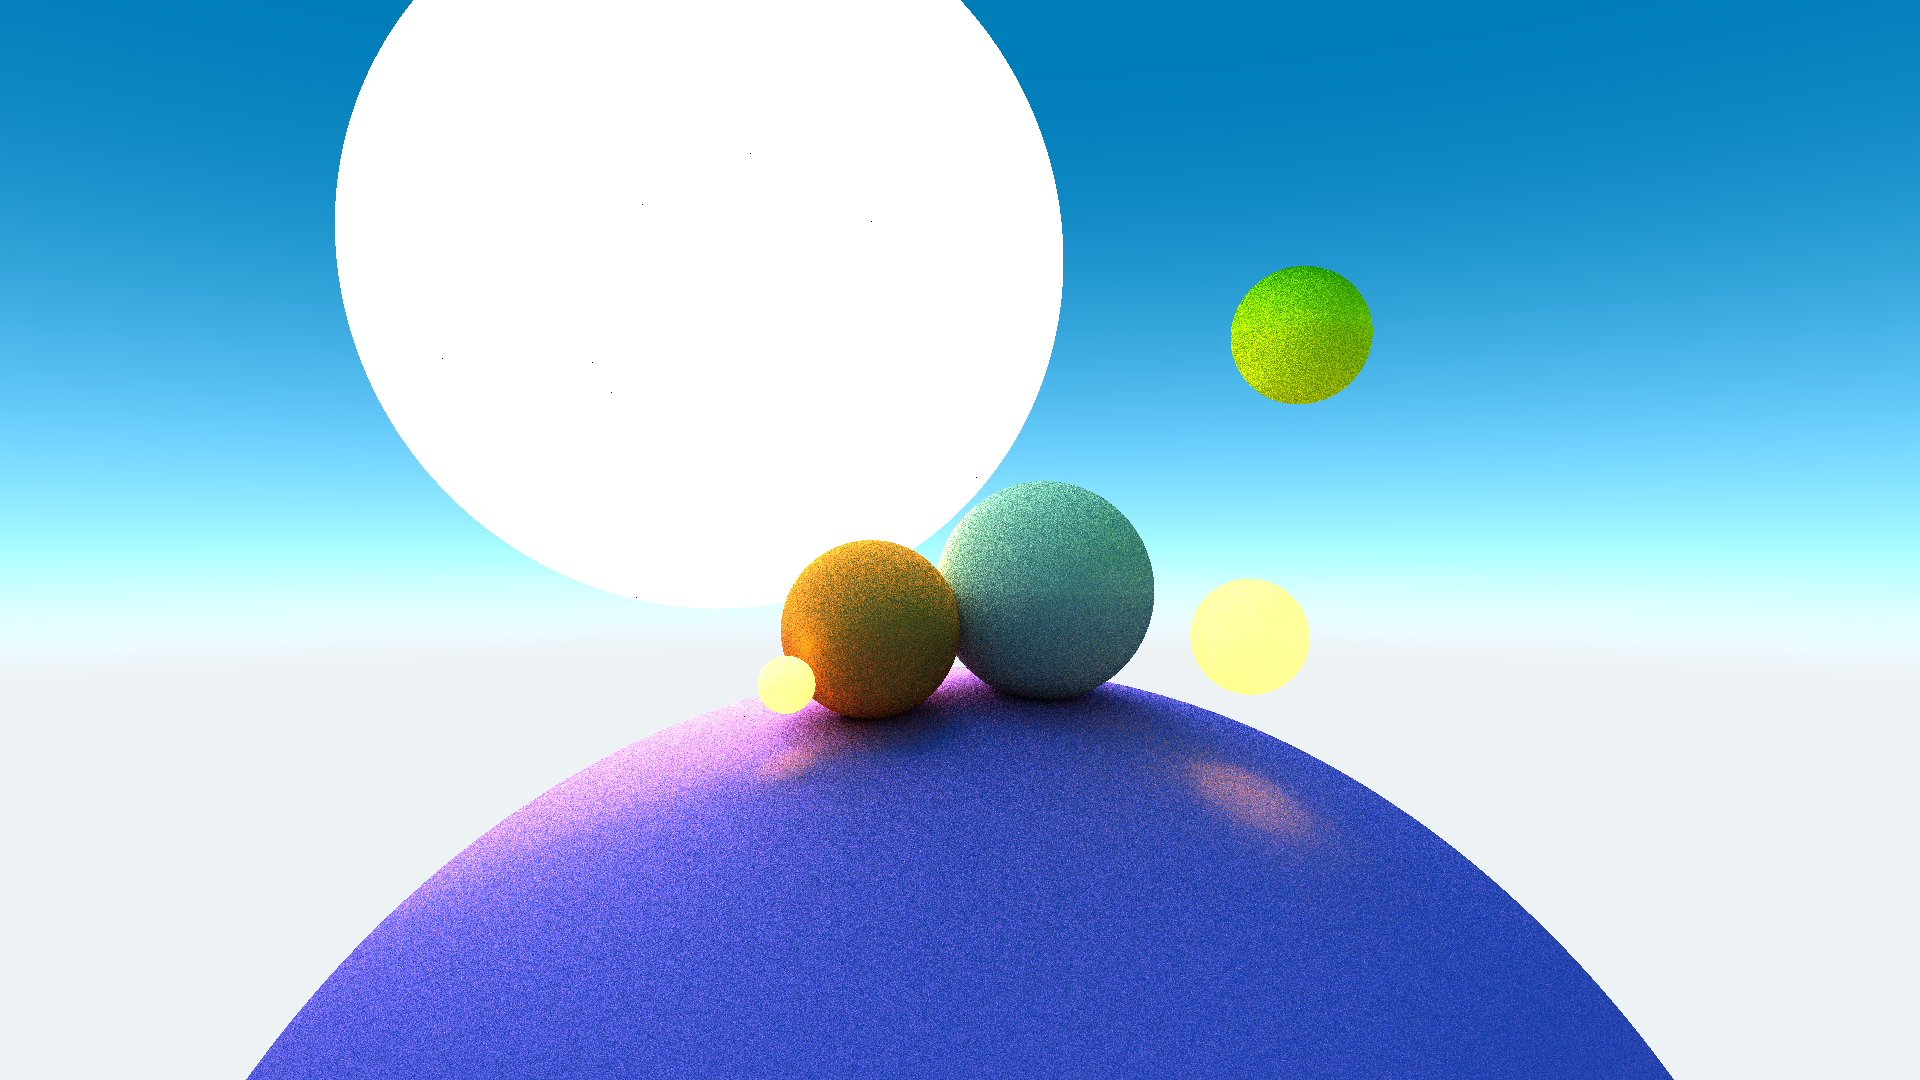
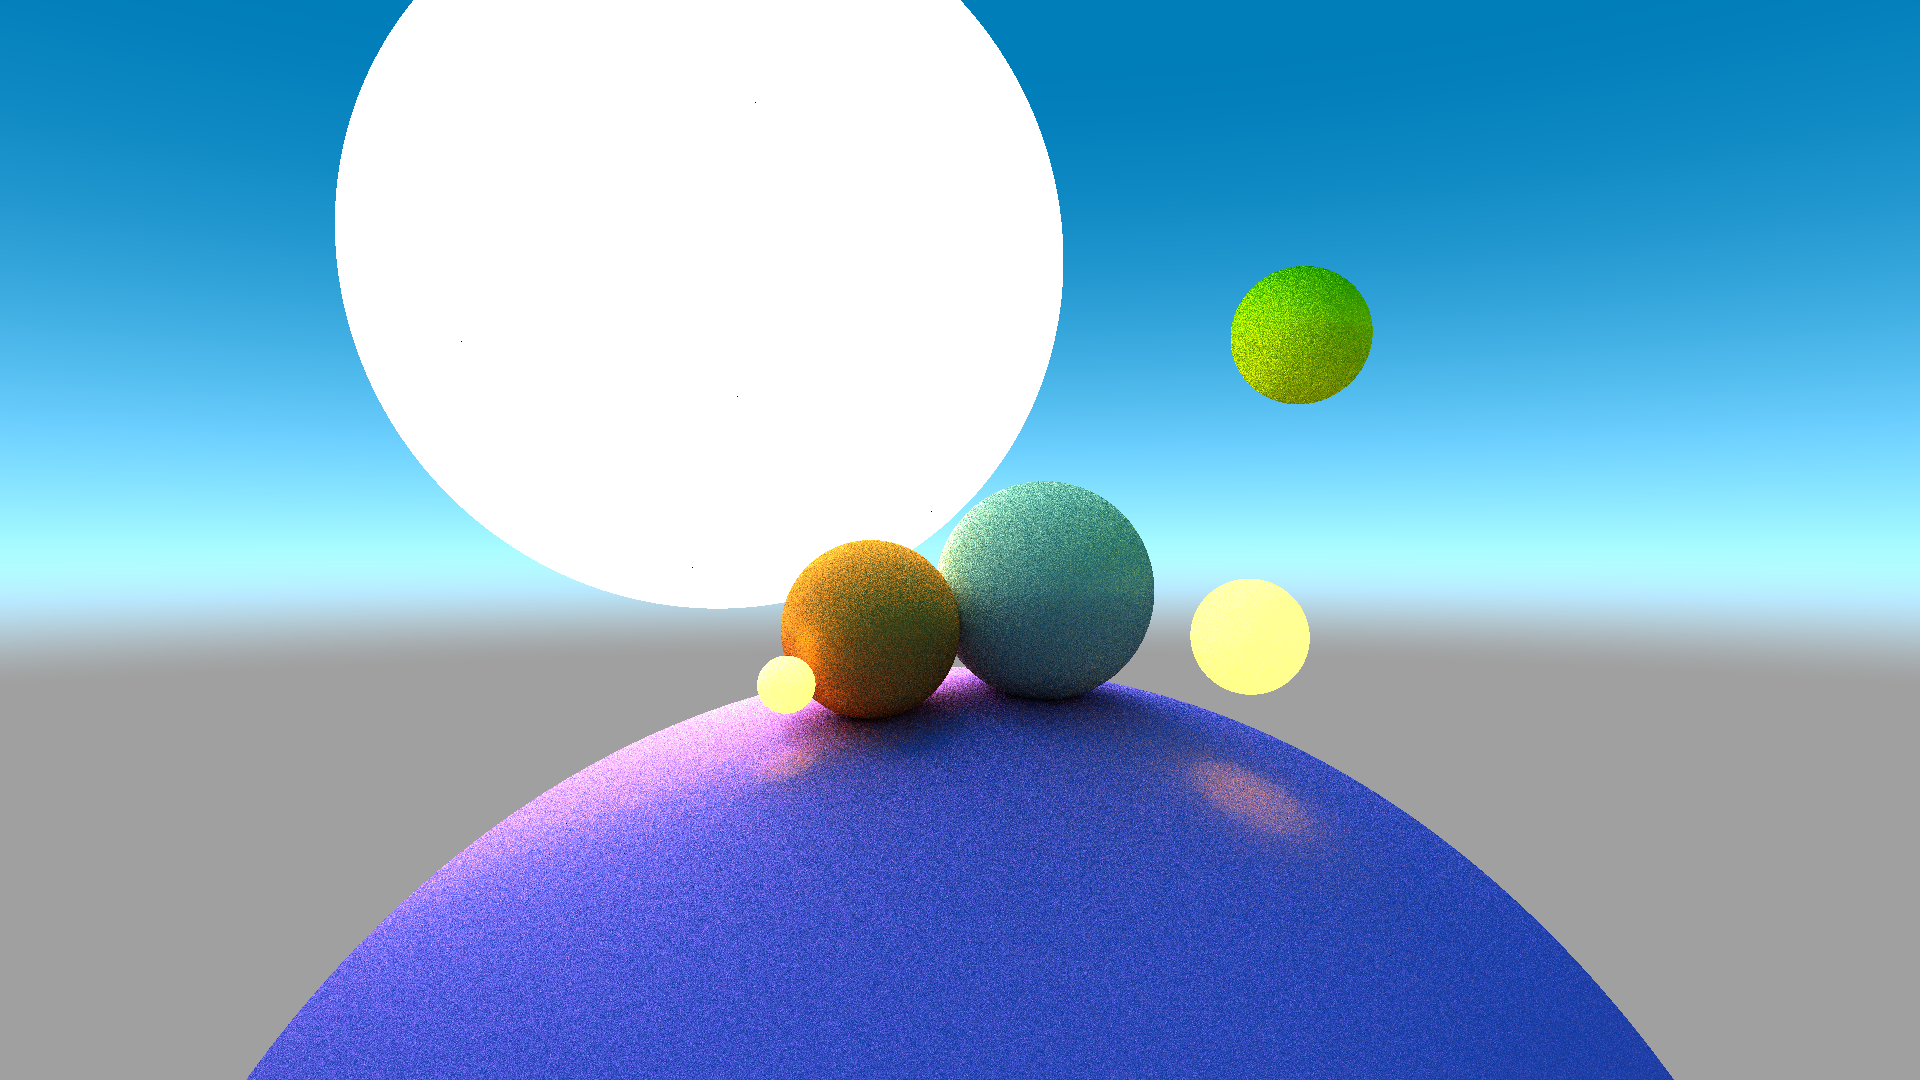
refactor(sky): update ground color

diff --git a/core/types/rendering/Camera.cpp b/core/types/rendering/Camera.cpp
@@ -171,7 +171,7 @@ Graphics::Color Camera::_getEnvironmentLight(Math::Ray &ray) {
     float skyGradiantT = pow(_smoothstep(-0.25, 0.4f, ray.direction.z), 0.35f);
     Common::Graphics::Color skyGradiant = _lerp(Common::Graphics::Color(1, 1, 1),
                                                 Common::Graphics::Color::fromRGB(0, 63, 93), skyGradiantT);
-    Common::Graphics::Color groundColor = Common::Graphics::Color::fromRGB(119, 121, 122);
+    Common::Graphics::Color groundColor = Common::Graphics::Color::fromRGB(80, 80, 80);
 
     Math::Vector3D sunDirection = Math::Vector3D(0, -1, 0);
     float max = std::max<float>(0, ray.direction.dot(sunDirection * -1));

diff --git a/core/app/cli/Handler.cpp b/core/app/cli/Handler.cpp
@@ -100,7 +100,7 @@ int Handler::run() {
     objects.push_back(objectProvider()->create(orange, Common::Math::Point3D(-10, 60, 30), 10.0f));
     objects.push_back(objectProvider()->create(yellow, Common::Math::Point3D(50, 100, 70), 10.0f));
 
-    //camera.compute(COMPUTE_THREADS, objects);
+    camera.compute(COMPUTE_THREADS, objects);
 
     for (auto& thread : camera._threads) {
         thread.join();
